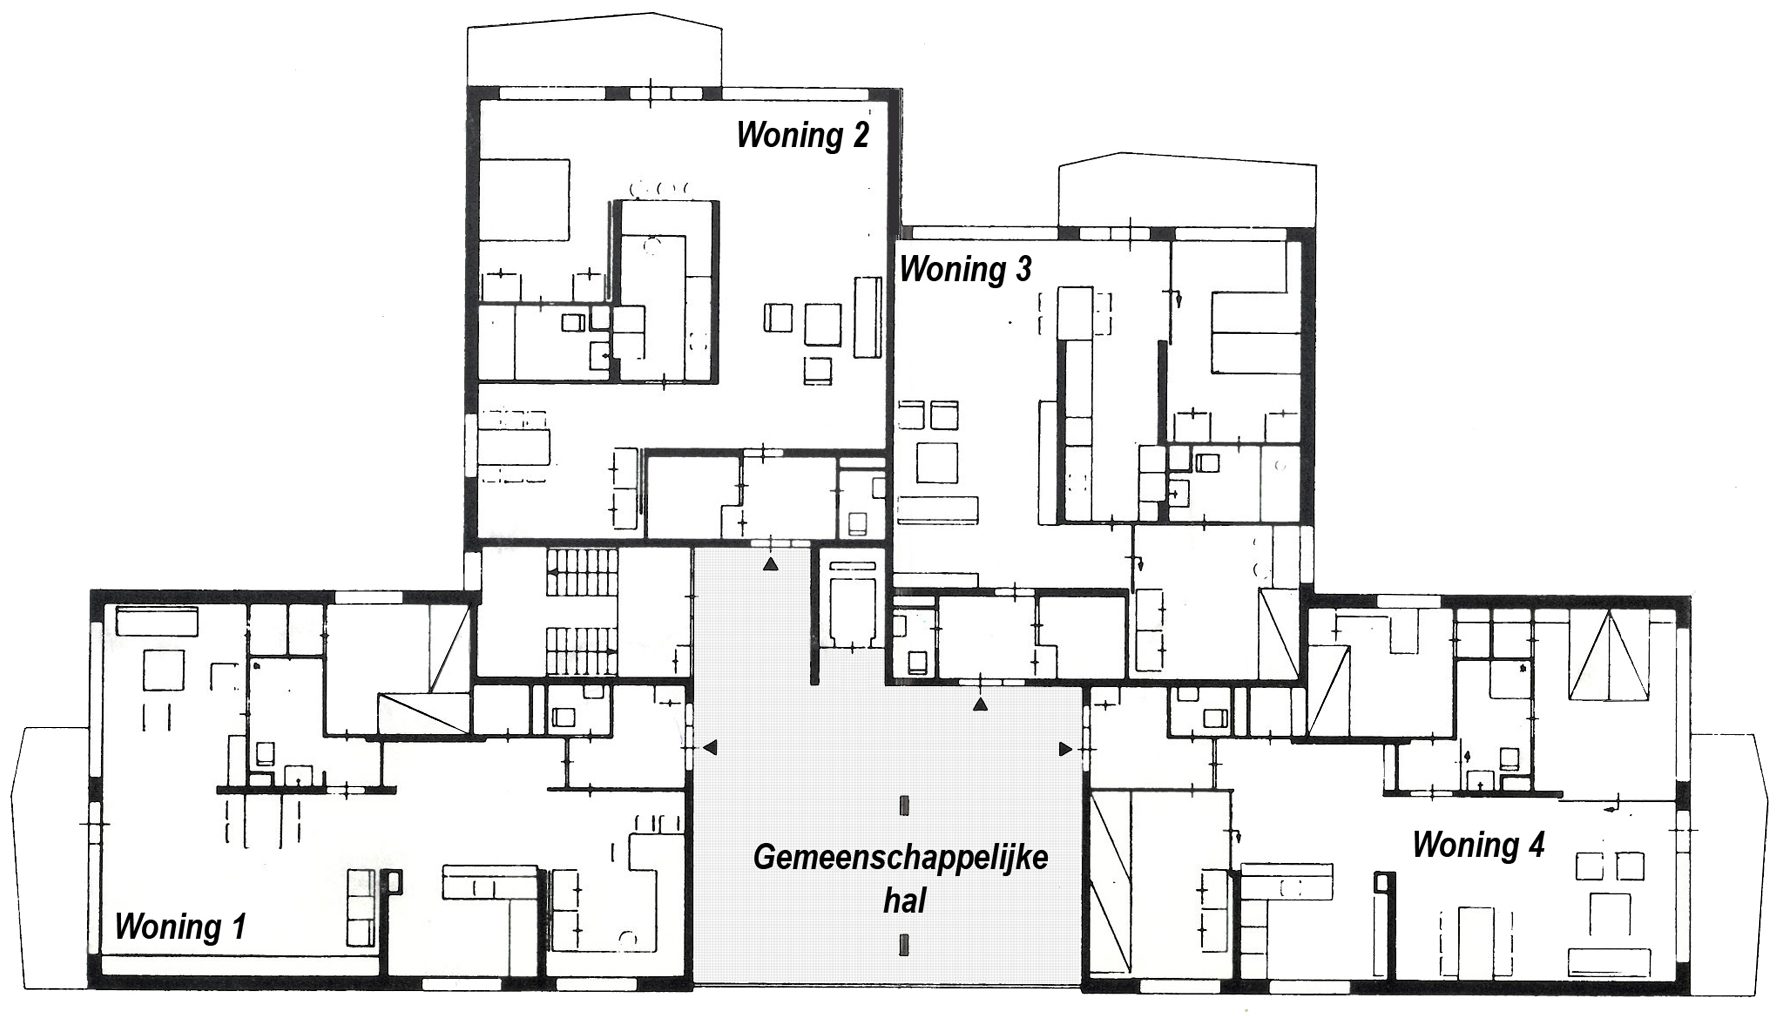
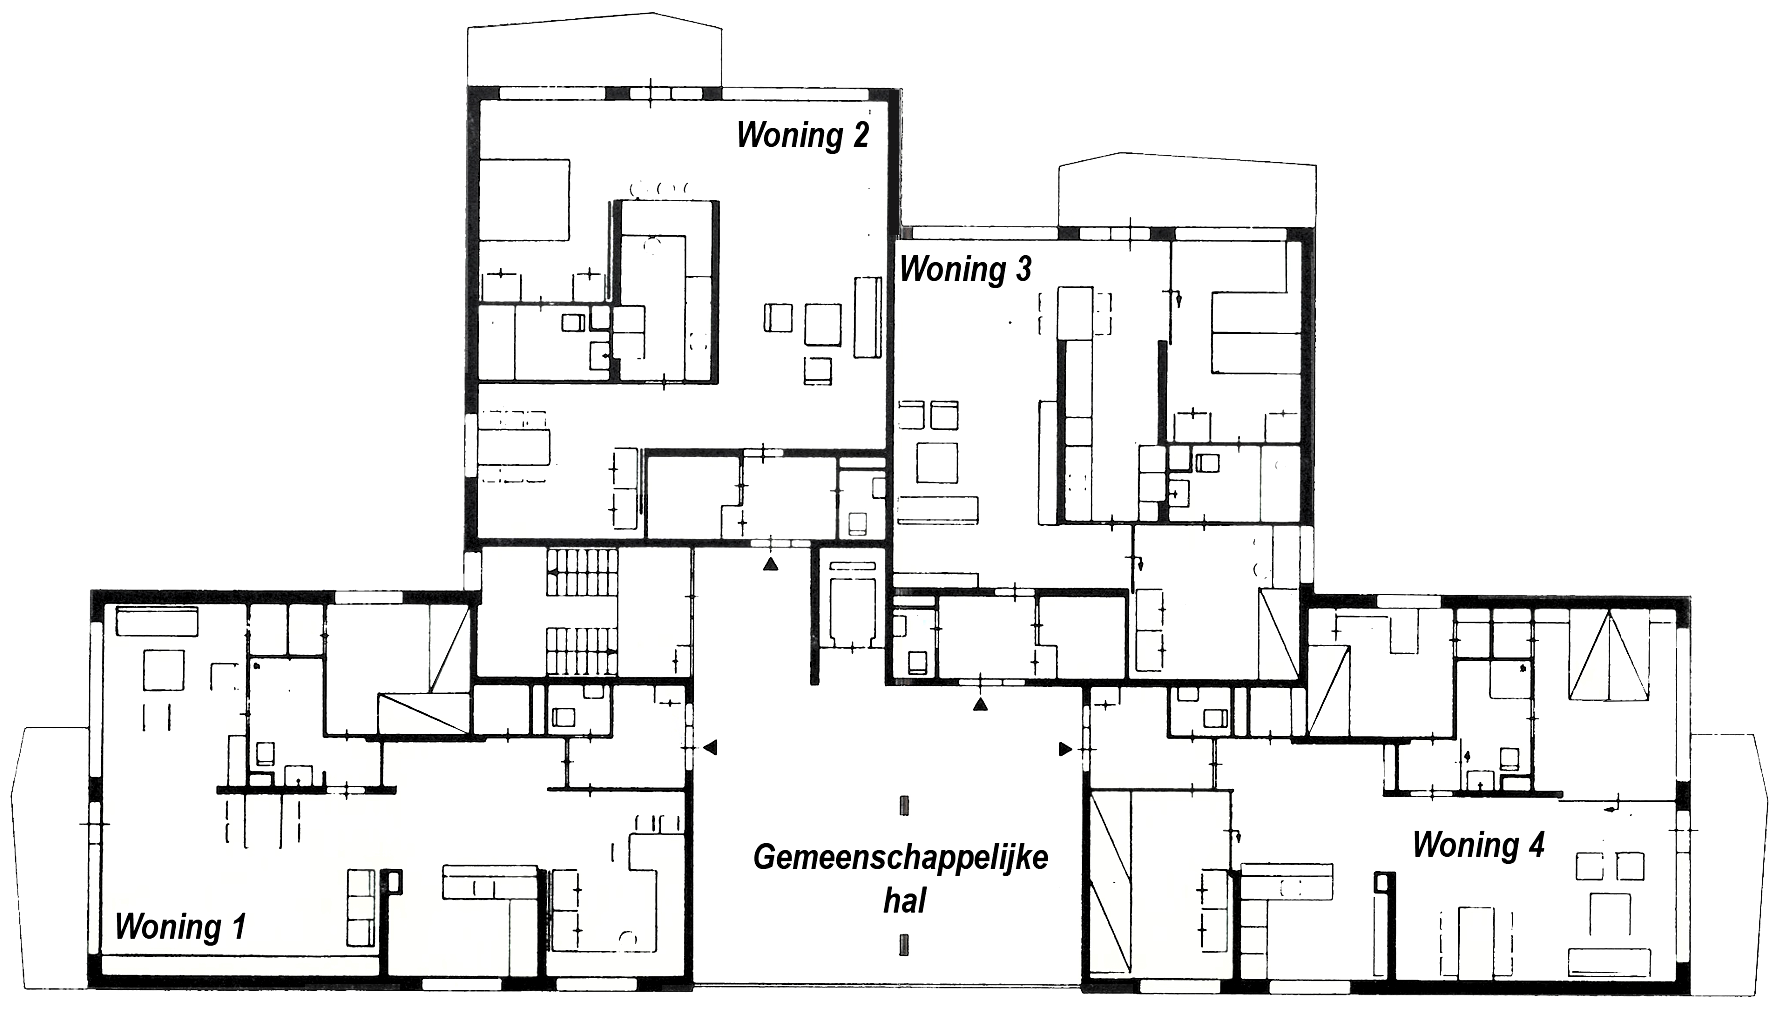
Change background color to offwhite
Make backgrounds of some images transparent

diff --git a/pages/archief.html b/pages/archief.html
@@ -7,7 +7,7 @@
 
 <a href="{% static '/static/docs_archief/20021113_OnsUtrecht_HetRedelijkAlternatief.pdf' %}" target="_blank">
     <img style="float: right; padding: 10px; width: 20%;"
-         src="{% static '/static/images_archief/krant.jpg' %}" />
+         src="{% static '/static/images_archief/krant.png' %}" />
 </a>
 
 <h2>Krantenartikelen</h2>

diff --git a/static/css/info.css b/static/css/info.css
@@ -2,6 +2,7 @@ body {
     padding-top: 55px;
     margin: 0 auto;
     width: 960px;
+    background-color: #fcfcfc;
 }
 
 #topbar {

diff --git a/static/css/main.css b/static/css/main.css
@@ -2,4 +2,5 @@ body {
     padding-top: 15px;
     margin: 0 auto;
     width: 960px;
+    background-color: #fcfcfc;
 }
